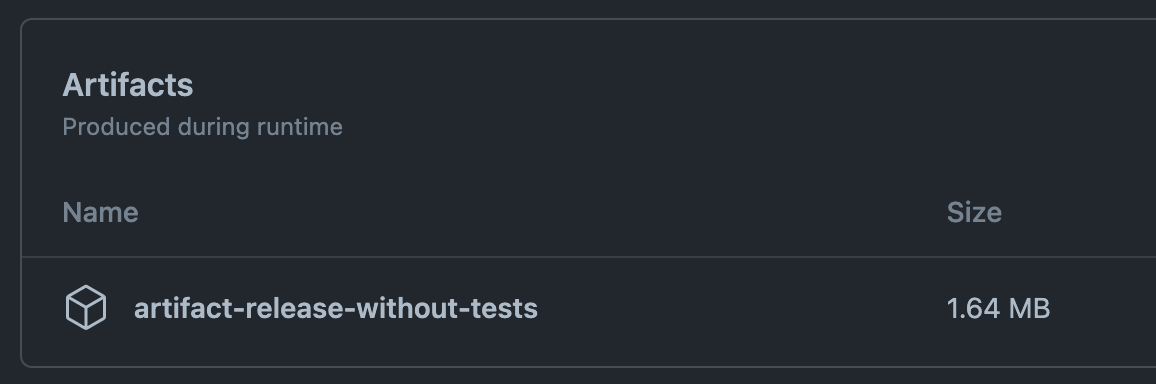
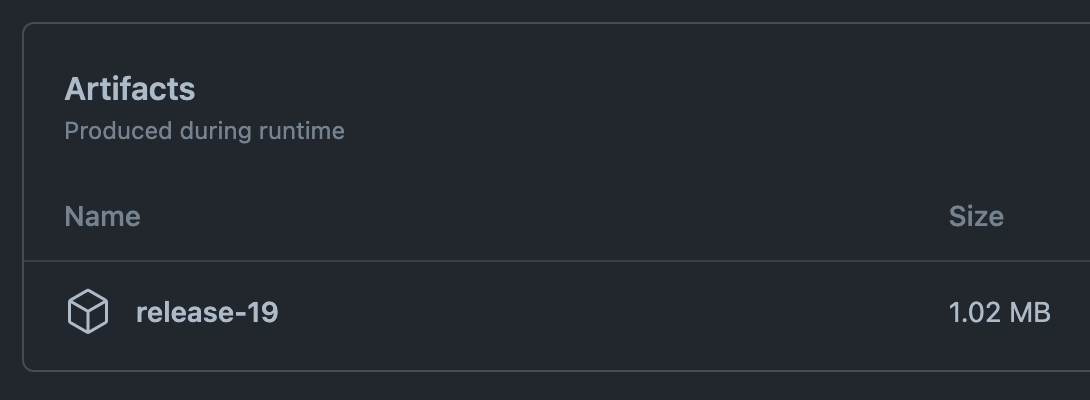
Readme

diff --git a/README.md b/README.md
@@ -279,8 +279,9 @@ We'll start of with creating a build by using artifacts. Before starting, we fir
 to check if the selected branch is allowed to be deployed:
 
 ```yaml
-  if: github.ref_name == 'master' || github.ref_name == 'development'
-  name: Create build for ${{ github.ref_name }}
+  build:
+    if: github.ref_name == 'master' || github.ref_name == 'development'
+    name: Create build ${{ github.run_number }} for ${{ github.ref_name }}
 ```
 
 If any other branch than `master` or `development` is selected the workflow will be aborted.
@@ -306,15 +307,14 @@ To create the build with the necessary files we first have to pull the dependenc
 After which we can create an artifact that contains the files needed for a deploy.
 
 ```yaml
-      # https://github.com/marketplace/actions/upload-a-build-artifact
-      - name: Create artifact
-        uses: actions/upload-artifact@v3
-        with:
-          name: artifact-release-without-tests
-          path: |
-            src/**
-            vendor/**
-
+  # https://github.com/marketplace/actions/upload-a-build-artifact
+  - name: Create artifact
+    uses: actions/upload-artifact@v3
+    with:
+      name: release-${{ github.run_number }}
+      path: |
+        src/**
+        vendor/**
 ```
 
 All artifacts created during a workflow can be downloaded from the workflow summary page.
@@ -326,7 +326,22 @@ This can come in handy to "debug" your artifact and to check which files are act
 
 <h3>Deploying to a remote server</h3>
 
-The next and final step is to deploy the build we created in the previous step.
+The next and final step is to deploy the build we created in the previous step. 
+Before we can do this, we first need to configure an [environment](https://docs.github.com/en/actions/deployment/targeting-different-environments/using-environments-for-deployment). 
+Navigate to `https://github.com/username/repository/settings/environments` to do this.
+In this example we'll have an environment for `master` and `development` 
+on which we'll configure the following: 
+
+<p align="center">
+	<img src="https://github.com/robiningelbrecht/continuous-integration-example/raw/master/readme/environment-settings.png" alt="Environment settings" width="500">
+</p>
+
+```yaml
+  needs: build
+  environment:
+    name: ${{ github.ref_name }}
+    url: https://${{ github.ref_name }}.env
+```
 
 @TODO:
 - Auto deploy:
